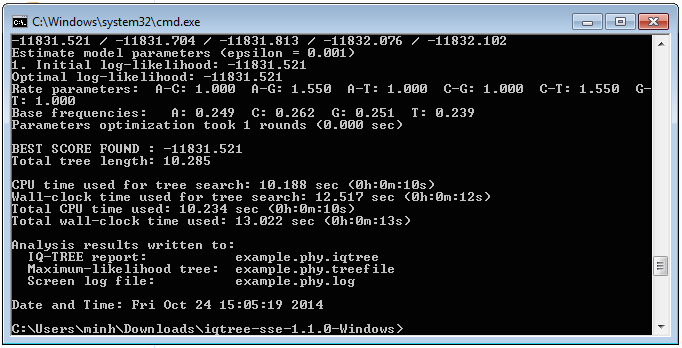
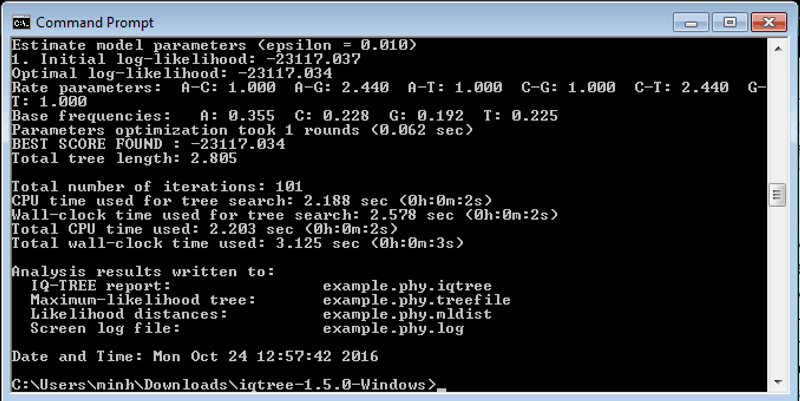
update doc for ver 1.5.0

Changed region(s): [[0.0, 0.0, 1.0, 1.0], [0.3387, 0.6897, 0.6466, 0.8333]]

diff --git a/doc/Tutorial.md b/doc/Tutorial.md
@@ -70,7 +70,9 @@ First running example
 ---------------------
 
 From the download there is an example alignment called `example.phy`
- in PHYLIP format (IQ-TREE also supports FASTA, NEXUS, CLUSTAL and MSF files). You can now start to reconstruct a maximum-likelihood tree
+ in PHYLIP format (IQ-TREE also supports FASTA, NEXUS, CLUSTAL and MSF files). This example contains parts of the mitochondrial DNA sequences of several animals.
+ 
+You can now start to reconstruct a maximum-likelihood tree
 from this alignment by entering (assuming that you are now in the same folder with `example.phy`):
 
     iqtree -s example.phy
@@ -79,13 +81,52 @@ from this alignment by entering (assuming that you are now in the same folder wi
 IQ-TREE to work. At the end of the run IQ-TREE will write several output files:
 
 * `example.phy.iqtree`: the main report file that is self-readable. You
-should look at this file to see the computational results. It also contains a textual representation of the final tree. 
+should look at this file to see the computational results. It also contains a textual representation of the final tree (see below). 
 * `example.phy.treefile`: the ML tree in NEWICK format, which can be visualized
 by any supported tree viewer programs like FigTree or  iTOL. 
 * `example.phy.log`: log file of the entire run (also printed on the screen). To report
 bugs, please send this log file and the original alignment file to the authors.
 
-The default prefix of all output files is the alignment file name. However,  you can always 
+For this example data the resulting maximum-likelihood tree may look like this (extracted from `.iqtree` file):
+
+    +--------------LngfishAu
+    |
+    |        +--------------LngfishSA
+    +--------|
+    |        +--------------LngfishAf
+    |
+    |      +-------------------Frog
+    +------|
+           |               +-----------------Turtle
+           |         +-----|
+           |         |     |      +-----------------------Sphenodon
+           |         |     |   +--|
+           |         |     |   |  +--------------------------Lizard
+           |         |     +---|
+           |         |         |      +---------------------Crocodile
+           |         |         +------|
+           |         |                +------------------Bird
+           +---------|
+                     |                  +----------------Human
+                     |               +--|
+                     |               |  |  +--------Seal
+                     |               |  +--|
+                     |               |     |   +-------Cow
+                     |               |     +---|
+                     |               |         +---------Whale
+                     |          +----|
+                     |          |    |         +------Mouse
+                     |          |    +---------|
+                     |          |              +--------Rat
+                     +----------|
+                                |   +----------------Platypus
+                                +---|
+                                    +-------------Opossum
+
+
+This makes sense as the mammals (`Human` to `Opossum`) form a clade, whereas the reptiles (`Turtle` to `Crocodile`) and `Bird` form a separate sister clade. Here the tree is drawn at the *outgroup* Lungfish which is more accient than other species in this example. However, please note that IQ-TREE always produces an **unrooted tree** as it knows nothing about this biological background; IQ-TREE simply draws the tree this way as `LngfishAu` is the first sequence occuring in the alignment. 
+
+Finally, the default prefix of all output files is the alignment file name. However,  you can always 
 change the prefix using the `-pre` option, e.g.:
 
     iqtree -s example.phy -pre myprefix
@@ -112,12 +153,12 @@ Here, IQ-TREE will write an additional file:
 
 * `example.phy.model`: log-likelihoods for all models tested.
 
-If you now look at `example.phy.iqtree` you will see that IQ-TREE selected the model `TIM`
-with Invar+Gamma rate heterogeneity. So `TIM+I+G` is the best-fit model
+If you now look at `example.phy.iqtree` you will see that IQ-TREE selected the model `TIM2`
+with Invar+Gamma rate heterogeneity. So `TIM2+I+G` is the best-fit model
 for this example data. Thus, for additional analyses you do not have to perform the model test again and can use the selected model as follows.
 
 
-    iqtree -s example.phy -m TIM+I+G
+    iqtree -s example.phy -m TIM2+I+G
 
 Sometimes you only want to find the best-fit model without doing tree reconstruction, then run:
 
@@ -194,7 +235,7 @@ Assessing branch supports with ultrafast bootstrap approximation
 
 To overcome the computational burden required by the nonparametric bootstrap, IQ-TREE introduces an ultrafast bootstrap approximation (UFBoot) ([Minh et al., 2013]) that is  orders of magnitude faster than the standard procedure and provides relatively unbiased branch support values. To run UFBoot, use the option  `-bb`:
 
-    iqtree -s example.phy -m TIM+I+G -bb 1000
+    iqtree -s example.phy -m TIM2+I+G -bb 1000
 
  `-bb`  specifies the number of bootstrap replicates where 1000
 is the minimum number recommended. The section  `MAXIMUM LIKELIHOOD TREE` in  `example.phy.iqtree` shows a textual representation of the maximum likelihood tree with branch support values in percentage. The NEWICK format of the tree is printed to the file  `example.phy.treefile`. In addition, IQ-TREE writes the following files:
@@ -213,7 +254,7 @@ Assessing branch supports with  standard nonparametric bootstrap
 
 The standard nonparametric bootstrap is invoked by  the  `-b` option:
 
-    iqtree -s example.phy -m TIM+I+G -b 100
+    iqtree -s example.phy -m TIM2+I+G -b 100
 
  `-b` specifies the number of bootstrap replicates where 100
 is the minimum recommended number. The output files are similar to those produced by the UFBoot procedure. 
@@ -225,29 +266,57 @@ Assessing branch supports with single branch tests
 
 IQ-TREE provides an implementation of the SH-like approximate likelihood ratio test ([Guindon et al., 2010]). To perform this test,  run:
 
-    iqtree -s example.phy -m TIM+I+G -alrt 1000
+    iqtree -s example.phy -m TIM2+I+G -alrt 1000
 
  `-alrt` specifies the number of bootstrap replicates for SH-aLRT where 1000 is the minimum number recommended. 
 
-IQ-TREE also provides a fast implementation of the local bootstrap probabilities method ([Adachi and Hasegawa, 1996]), 
-which we call Fast-LBP. Fast-LBP computes the branch support by comparing the tree log-likelihood
-with the log-likelihoods of the two alternative nearest-neighbor-interchange (NNI) trees around the branch of interest.
-However, Fast-LBP is different from LBP where we compute the log-likelihoods of the two alternative NNI trees
-by only reoptimizing five branches around the branch of interest (Similar idea is used in the SH-aLRT test).
-To perform Fast-LBP, simply run:
+IQ-TREE also supports other tests such as the aBayes test ([Anisimova et al., 2011]) and the local bootstrap test ([Adachi and Hasegawa, 1996]). See [single branch tests](Command-Reference#single-branch-tests) for more details.
 
-    iqtree -s example.phy -m TIM+I+G -lbp 1000
+You can also perform both SH-aLRT and the ultrafast bootstrap within one single run:
+
+    iqtree -s example.phy -m TIM2+I+G -alrt 1000 -bb 1000
+
+The branches of the resulting `.treefile` will be assigned with both SH-aLRT and UFBoot support values, which are readable by any tree viewer program like FigTree, Dendroscope or ETE. You can also look at the textual tree figure in `.iqtree` file:
+
+    NOTE: Tree is UNROOTED although outgroup taxon 'LngfishAu' is drawn at root
+    Numbers in parentheses are SH-aLRT support (%) / ultrafast bootstrap support (%)
+
+    +-------------LngfishAu
+    |
+    |       +--------------LngfishSA
+    +-------| (100/100)
+    |       +------------LngfishAf
+    |
+    |      +--------------------Frog
+    +------| (99.8/100)
+           |                     +-----------------Turtle
+           |                  +--| (85/72)
+           |                  |  |    +------------------------Crocodile
+           |                  |  +----| (96.5/97)
+           |                  |       +------------------Bird
+           |               +--| (39/51)
+           |               |  +---------------------------Sphenodon
+           |         +-----| (98.2/99)
+           |         |     +-------------------------------Lizard
+           +---------| (100/100)
+                     |                   +--------------Human
+                     |                +--| (92.3/93)
+                     |                |  |  +------Seal
+                     |                |  +--| (68.3/75)
+                     |                |     |  +-----Cow
+                     |                |     +--| (99.7/100)
+                     |                |        +-------Whale
+                     |           +----| (99.1/100)
+                     |           |    |         +---Mouse
+                     |           |    +---------| (100/100)
+                     |           |              +------Rat
+                     +-----------| (100/100)
+                                 |  +--------------Platypus
+                                 +--| (93/98)
+                                    +-----------Opossum
 
 
-You can also perform both tests:
-
-    iqtree -s example.phy -m TIM+I+G -alrt 1000 -lbp 1000
-
-The branches of the resulting ML tree are assigned with both SH-aLRT and Fast-LBP support values.
-Finally, you can also combine the ultrafast bootstrap approximation with single branch tests within one single run:
-
-    iqtree -s example.phy -m TIM+I+G -bb 1000 -alrt 1000 -lbp 1000
-
+From this figure, the branching patterns within reptiles are poorly supported (e.g. `Sphenodon` with SH-aLRT: 39%, UFBoot: 51% and `Turtle` with SH-aLRT: 85%, UFBoot: 72%) as well as the phylogenetic position of `Seal` within mammals (SH-aLRT: 68.3%, UFBoot: 75%). Other branches appear to be well supported.
 
 Partitioned analysis for multi-gene alignments
 ----------------------------------------------
@@ -413,6 +482,7 @@ Therefore, I would only use 2 cores, which seems to balance the trade-off betwee
 
 
 [Adachi and Hasegawa, 1996]: http://www.is.titech.ac.jp/~shimo/class/doc/csm96.pdf
+[Anisimova et al., 2011]: http://dx.doi.org/10.1093/sysbio/syr041
 [Gadagkar et al., 2005]: http://dx.doi.org/10.1002/jez.b.21026
 [Guindon et al., 2010]: http://dx.doi.org/10.1093/sysbio/syq010
 [Lanfear et al., 2012]: http://dx.doi.org/10.1093/molbev/mss020

diff --git a/doc/Frequently-Asked-Questions.md b/doc/Frequently-Asked-Questions.md
@@ -5,6 +5,8 @@ doctype: tutorial
 tags:
 - tutorial
 sections:
+- name: How do I get help?
+  url: how-do-i-get-help
 - name: How to interpret ultrafast bootstrap (UFBoot) supports?
   url: how-do-i-interpret-ultrafast-bootstrap-ufboot-support-values
 - name: How does IQ-TREE treat gap/missing/ambiguous characters?
@@ -33,6 +35,7 @@ For common questions and answers.
 <!-- DON'T EDIT THIS SECTION, INSTEAD RE-RUN doctoc TO UPDATE -->
 **Table of Contents**
 
+- [How do I get help?](#how-do-i-get-help)
 - [How do I interpret ultrafast bootstrap (UFBoot) support values?](#how-do-i-interpret-ultrafast-bootstrap-ufboot-support-values)
 - [How does IQ-TREE treat gap/missing/ambiguous characters?](#how-does-iq-tree-treat-gapmissingambiguous-characters)
 - [Can I mix DNA and protein data in a partitioned analysis?](#can-i-mix-dna-and-protein-data-in-a-partitioned-analysis)
@@ -43,6 +46,29 @@ For common questions and answers.
 - [Why does IQ-TREE complain about the use of +ASC model?](#why-does-iq-tree-complain-about-the-use-of-asc-model)
 
 <!-- END doctoc generated TOC please keep comment here to allow auto update -->
+
+
+How do I get help?
+------------------
+
+If you have questions please follow the steps below:
+
+1. Continue to read the FAQ below, which may answer your questions already.
+2. If not,  read the documentation <http://www.iqtree.org/doc>.
+3. If you still could not find the answer, search the [IQ-TREE Google group](https://groups.google.com/d/forum/iqtree). There is a "Search for topics" box at the top of the Google group web page.
+4. Finally, if no answer is found, post a question to the IQ-TREE group. The average response time is one to two working days.
+
+For bug report, please send the following information to the [IQ-TREE Google group](https://groups.google.com/d/forum/iqtree):
+
+1. A description of the behaviour, which you think might be unexpected or caused by a bug. 
+2. The first 10 lines and last 10 lines of the `.log` file.
+3. (If possible) the assertion message printed on the screen, which may look like this:
+
+        iqtree-omp: ....cpp:140: ...: Assertion '...' failed.
+ 
+The development team will get back to you and may ask for the full `.log` file and input data files for debugging purpose, if necessary. In such case please **only send your data files directly to the developers for confidential reason**! Keep in mind that everyone can see all emails sent to the group!
+
+For other feedback and feature request, please post a topic to the [IQ-TREE Google group](https://groups.google.com/d/forum/iqtree). We welcome all suggestions to further improve IQ-TREE! For feature request, please also explain why you think such a new feature would be useful or how can it help for your work.
 
 
 How do I interpret ultrafast bootstrap (UFBoot) support values?
@@ -128,9 +154,11 @@ Whether the character composition deviates significantly from the overall compos
 
 This test should be regarded as an *explorative tool* which might help to nail down problems in a dataset. One would typically not remove failing sequences by default. But if the tree shows unexpected topology the test might point in direction of the origin of the problem. 
 
-Furthermore, please keep in mind, this test is performed at the very beginning, where IQ-TREE does not know anything about partitions yet. That means, it might be more reasonable to test this separately for each partition in a partition analysis. Here, one might want to be able to decide whether some partitions should better be discarded if it is hard to find a composition representing the sequences in the partition. Or on the other hand if a sequence fails for many partitions and show very unexpected phylogenetic topologies, try without it. 
+Furthermore, please keep in mind, this test is performed at the very beginning, where IQ-TREE does not know anything about the models yet. That means:
 
-In any case if one has sequences that fail, it is recommended to always check the alignment (something one should always do anyway), especially if they have been collected and produced automatically.
+* If you have partitioned (multi-gene) data, it might be more reasonable to test this separately for each partition in a partition analysis. Here, one might want to be able to decide whether some partitions should better be discarded if it is hard to find a composition representing the sequences in the partition. Or on the other hand if a sequence fails for many partitions and show very unexpected phylogenetic topologies, try without it.
+* If you have (phylogenomic) protein data, you can also try several [protein mixture models](Substitution-Models#protein-models), which account for different amino-acid compositions along the sequences, for example, the `C10` to `C60` profile mixture models.
+* Finally, it is recommended to always check the alignment (something one should always do anyway), especially if they have been collected and produced automatically.
 
 
 What is the good number of CPU cores to use?

diff --git a/doc/Complex-Models.md b/doc/Complex-Models.md
@@ -126,14 +126,15 @@ Mixture models
 
 #### What is the difference between partition and mixture models?
 
-Mixture models,  like partition models, allow more than one substitution model along the sequences. However, while a partition model assigns each alignment site a given specific model, mixture models do not have this information: each site has a probability of belonging to each of the mixture components (also called categories or classes). In other words, the *site-to-model assignment is unknown*.
+Mixture models,  like partition models, allow more than one substitution model along the sequences. However, while a partition model assigns each alignment site a given specific model, mixture models do not need this information: it will compute for each site its probability of belonging to each of the mixture classes (also called categories or components). Since the site-to-class assignment is not known, the site likelihood under mixture models is the weighted sum of site likelihoods per mixture class.
 
-For example, the [discrete Gamma rate heterogeneity](Substitution-Models#rate-heterogeneity-across-sites) is the simplest type of mixture model, where there are several rate categories and each site belongs to a rate category with a probability. The likelihood of a site under a mixture model is computed as the weighted average of the site-likelihood under each mixture category.
+For example, the [discrete Gamma rate heterogeneity](Substitution-Models#rate-heterogeneity-across-sites) is a simple type of mixture model, which have several rate categories with equal probability. IQ-TREE also supports a number of [predefined protein mixture models](Substitution-Models#protein-models) such as the profile mixture models `C10` to `C60` (The ML variants of Bayesian `CAT` models).
 
+Here, we discuss several possibilities to define new mixture models in IQ-TREE.
 
 #### Defining mixture models
 
-IQ-TREE supports a number of [predefined protein mixture models](Substitution-Models#protein-models). Here, we give more details how to define new mixture models in IQ-TREE. To start with, the following command:
+To start with, the following command:
 
     iqtree -s example.phy -m "MIX{JC,HKY}"
 
@@ -219,9 +220,12 @@ To use the PMSF model you have to provide a *guide tree*, which, for example, ca
 
     iqtree -s <alignment> -m LG+C20+F+G -ft <guide_tree>
 
-Here, IQ-TREE will perform two phases. In the first phase, IQ-TREE estimates mixture model parameters given the guide tree and then infers the site-specific frequency profile (printed to `.sitefreq` file). In the second phase, IQ-TREE will conduct typical analysis using the inferred frequency model instead of the mixture model to save RAM and running time. This allows one, for the first time, to conduct nonparametric bootstrap under such complex models, for example (with 100 bootstrap replicates):
+Here, IQ-TREE will perform two phases. In the first phase, IQ-TREE estimates mixture model parameters given the guide tree and then infers the site-specific frequency profile (printed to `.sitefreq` file). In the second phase, IQ-TREE will conduct typical analysis using the inferred frequency model instead of the mixture model to save RAM and running time. Note that without `-ft` option, IQ-TREE will conduct the analysis under the specified mixture model.
+
+The PMSF model allows one, for the first time, to conduct nonparametric bootstrap under such complex models, for example (with 100 bootstrap replicates):
 
     iqtree -s <alignment> -m LG+C20+F+G -ft <guide_tree> -b 100
+
 
 Please note that the first phase still consumes as much RAM as the mixture model. To overcome this, you can perform the first phase in a high-memory server and the second phase in a normal PC as follows:
 
@@ -229,14 +233,22 @@ Please note that the first phase still consumes as much RAM as the mixture model
 
 This will stop the analysis after the first phase and also write a `.sitefreq` file. You can now copy this `.sitefreq` file to another low-memory machine and run with the same alignment:
 
-    iqtree -s <alignment> -m LG+C20+F+G -fs <file.sitefreq>
+    iqtree -s <alignment> -m LG+C20+F+G -fs <file.sitefreq> -b 100
 
 This will omit the first phase and thus need much less RAM. 
 
 Finally, note that for long (phylogenomic) alignments you can utilize the multicore IQ-TREE version to further save the computing times with, say, 24 cores by:
 
     iqtree-omp -nt 24 -s <alignment> -m LG+C20+F+G -fs <file.sitefreq>
- 
+
+Here is the list of relevant command line options:
+
+|Option| Usage and meaning |
+|------|-------------------|
+|  -ft | Specify a guide tree tree to infer site frequency model |
+|  -fs | Specify a site frequency model file |
+| -fmax| Switch to posterior maximum instead of posterior mean approximation | 
+
 
 [Brown et al. (2013)]: http://dx.doi.org/10.1098/rspb.2013.1755
 [Lartillot and Philippe, 2004]: http://dx.doi.org/10.1093/molbev/msh112

diff --git a/doc/Quickstart.md b/doc/Quickstart.md
@@ -29,6 +29,7 @@ Recommended for users who just downloaded IQ-TREE the first time.
 - [For Windows users](#for-windows-users)
 - [For Mac OS X users](#for-mac-os-x-users)
 - [Minimal command-line examples](#minimal-command-line-examples)
+- [Where to continue from here?](#where-to-continue-from-here)
 
 <!-- END doctoc generated TOC please keep comment here to allow auto update -->
 
@@ -38,7 +39,7 @@ Installation
 
 To achieve high performance IQ-TREE is a command-line program: you need to run IQ-TREE from a Terminal/Console (this is called Command Prompt under Windows). After you [downloaded IQ-TREE](Home#download), please:
 
-* Extract the `.zip` (Windows, MacOSX) or `.tar.gz` (Linux) file to create a directory `iqtree-X.Y.Z-OS` or `iqtree-omp-X.Y.Z-OS`.
+* Extract the `.zip` (Windows, MacOSX) or `.tar.gz` (Linux) file to create a directory `iqtree-X.Y.Z-OS` or `iqtree-omp-X.Y.Z-OS`, where `X.Y.Z` is the version number and `OS` is the operating system (Windows, MacOSX or Linux).
 * You will find the executable in the `bin` sub-folder. Copy all files in `bin` folder to your system search path such that you can run IQ-TREE by entering `iqtree` or `iqtree-omp` from the Terminal.
 
 Now you need to open a Terminal (or Console) to run IQ-TREE. See below the guide for [Windows users](#for-windows-users) and [Mac OS X users](#for-mac-os-x-users).
@@ -51,9 +52,9 @@ Since IQ-TREE is a command-line program, clicking on `iqtree.exe` will not work.
 
 1. Click on "Start" menu (below left corner of Windows screen).
 2. Type in "cmd" and press "Enter". It will open the Command Prompt window (see Figure below).
-3. Go into IQ-TREE folder you just extracted by entering e.g.:
+3. Go into IQ-TREE folder you just extracted by entering e.g. (assuming you downloaded version 1.5.0):
 
-        cd Downloads\iqtree-1.3.10-Windows
+        cd Downloads\iqtree-1.5.0-Windows
         
     (assuming that IQ-TREE was downloaded into `Downloads` folder).
 4. Now you can try an example run by entering:
@@ -72,9 +73,9 @@ For Mac OS X users
 ------------------
 
 1. Open the "Terminal", e.g., by clicking on the Spotlight icon (top-right corner), typing "terminal" and press "Enter".
-2. Go into IQ-TREE folder by entering:
+2. Go into IQ-TREE folder by entering (assuming you downloaded version 1.5.0):
 
-        cd Downloads/iqtree-1.2.0-MacOSX
+        cd Downloads/iqtree-1.5.0-MacOSX
 
     (assuming that IQ-TREE was downloaded into `Downloads` folder).
 3. Now you can try an example run by entering 
@@ -94,8 +95,6 @@ Minimal command-line examples
 -----------------------------
 
 A few typically analyses are listed in the following. Note that it is assumed that `iqtree` executable was already copied into system search path. If not, please replace `iqtree` with actual path to executable.
-
->**TIP**: Refer to [Beginner's tutorial](Tutorial) for more details.
 
 * Reconstruct maximum-likelihood tree from a sequence alignment (`example.phy`)
    with the best-fit substitution model automatically selected:
@@ -130,3 +129,9 @@ A few typically analyses are listed in the following. Note that it is assumed th
 
         iqtree -h
         
+
+Where to continue from here?
+----------------------------
+
+Please continue with the **[Beginner's tutorial](Tutorial)** for further usages.
+

diff --git a/doc/Command-Reference.md b/doc/Command-Reference.md
@@ -250,6 +250,7 @@ The new IQ-TREE search algorithm ([Nguyen et al., 2015]) has several parameters 
 | -numstop | Specify number of unsuccessful iterations to stop. *DEFAULT: 100* |
 | -n       | Specify number of iterations to stop. This option overrides `-numstop` criterion. |
 | -djc     | Avoid computing ML pairwise distances and BIONJ tree. |
+| -g       | Specify a topological constraint tree file in NEWICK format. The constraint tree can be a multifurcating tree and need not to include all taxa. |
 
 >**NOTICE**: While the default parameters were empirically determined to work well under our extensive benchmark ([Nguyen et al., 2015]), it might not hold true for all data sets. If in doubt that tree search is still stuck in local optima, one should repeat analysis with at least 10 IQ-TREE runs. Moreover, our experience showed that `-pers` and `-numstop` are the most relevant options to change in such case. For example, data sets with many short sequences should be analyzed with smaller perturbation strength (`-pers`) and larger `-numstop`.
 
